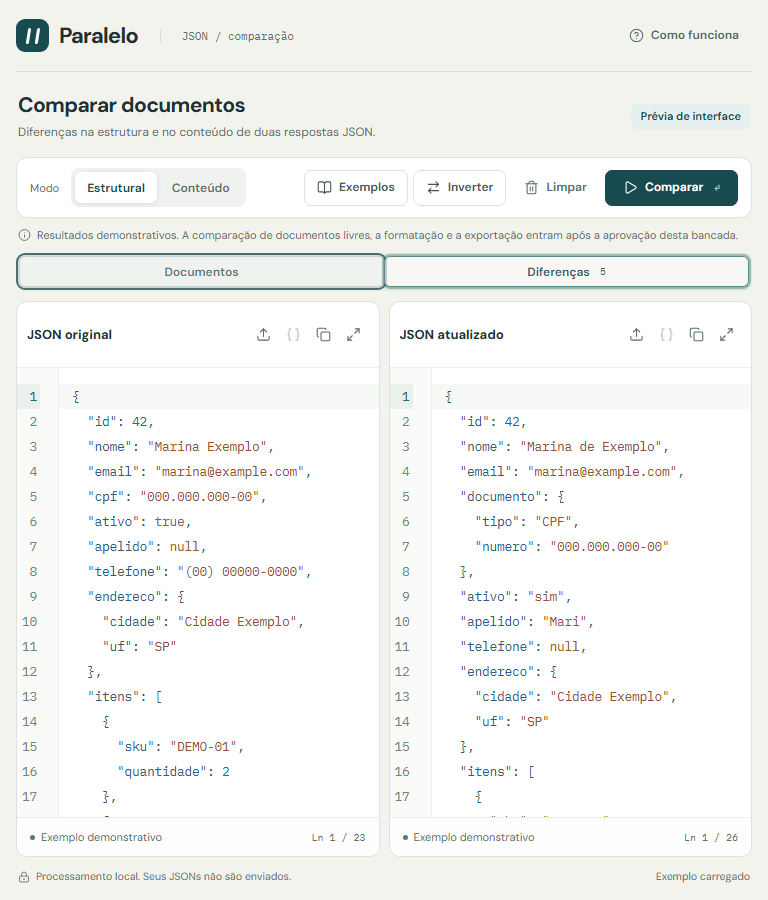
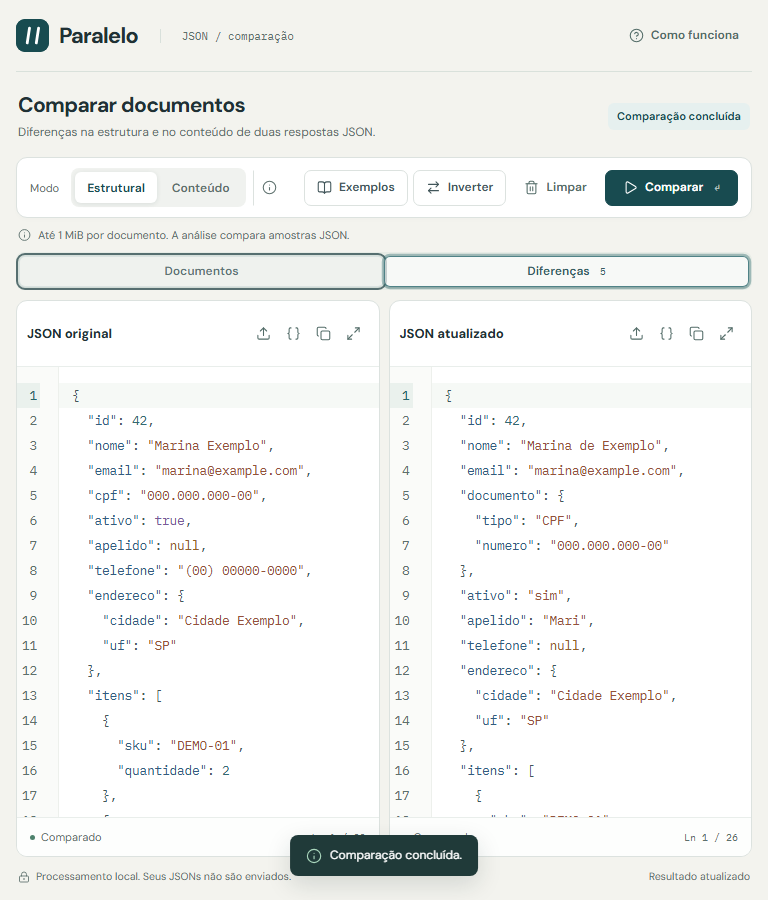
docs: document and capture the validated Paralelo V1

diff --git a/README.md b/README.md
@@ -1,12 +1,12 @@
 # Paralelo
 
-Bancada para comparar documentos JSON. Esta entrega é a **prévia navegável da interface React**, aguardando aprovação visual antes da implementação do motor.
+Bancada web para comparar dois exemplos JSON, inspecionar diferenças e exportar um relatório Markdown. O processamento acontece **localmente no navegador**, em um Web Worker. Não há backend, conta ou envio de documentos.
 
 ![Bancada em desktop](docs/screenshots/paralelo-1440.png)
 
 ## Executar
 
-Requer Node.js 24 LTS e npm. Na raiz:
+Requer Node.js 24 LTS e npm. As dependências têm versões fixas e um único lockfile.
 
 ```sh
 npm ci
@@ -15,39 +15,75 @@ npm run dev
 
 Abra http://127.0.0.1:5184/. A porta é fixa para evitar abrir outra aplicação por engano.
 
-Para executar o artefato estático:
+Para gerar e experimentar o artefato de produção:
 
 ```sh
 npm run build
 npm run preview
 ```
 
-A saída está em `dist/`, ignorada no Git. A publicação remota não faz parte deste marco.
+A saída está em `dist/`, ignorada no Git. Pode ser hospedada como arquivos estáticos, servindo os arquivos JavaScript do Worker com seu tipo correto. Use HTTPS em produção, inclusive para acesso ao clipboard. Não é necessário ASP.NET, SignalR ou WebSockets; o WebSocket de HMR existe apenas no desenvolvimento do Vite. Publicação remota permanece fora desta entrega.
 
-## O que experimentar
+## Utilizar
 
-- Os exemplos de cadastro, webhook e configuração substituem os documentos e apresentam resultados demonstrativos no modo selecionado.
-- Alterar o modo exige clicar em **Comparar**. O botão reapresenta apenas o cenário demonstrativo intacto; não compara documentos livres.
-- O modo **Conteúdo** do exemplo de configuração tem 32 diferenças e permite testar as duas páginas.
-- Filtros de classificação e tipo se combinam. O drawer de detalhes navega pelo conjunto filtrado, inclusive entre páginas.
-- **Localizar** seleciona o valor completo no CodeMirror a partir de intervalos fixos conferidos para cada exemplo. Ausência e JSON `null` são distintos.
-- Os editores permitem digitar, desfazer/refazer, importar UTF-8 com ou sem BOM, copiar e ampliar. Tab permite sair do editor.
-- Editar, importar, inverter ou mudar o modo torna o resultado anterior desatualizado e bloqueia sua localização. Recarregar um exemplo restaura o cenário.
-- Textos, seleção, histórico e rolagem permanecem nas mesmas instâncias de editor ao alternar abas ou larguras.
+A primeira visita abre o exemplo fictício de cadastro já comparado. Os exemplos de cadastro, webhook e configuração substituem os dois documentos, preservam o modo e executam uma comparação real.
 
-Formatação e exportação estão desabilitadas e identificadas como pendentes. Esta prévia **não valida JSON livre nem comprova precisão de comparação numérica**. Essas garantias dependerão dos testes e da implementação do motor após a aprovação.
+- **Estrutural:** identifica propriedades, tipos, transições envolvendo null e diferenças nos arrays. Ignora mudanças comuns de valores escalares.
+- **Conteúdo:** acrescenta mudanças de valores escalares, com igualdade numérica exata.
+- Digitação, importação, formatação, inversão e mudança de modo exigem clicar em **Comparar**, ou usar Ctrl/Cmd+Enter na bancada. O resultado anterior continua consultável, com indicação de desatualização; localização e exportação ficam bloqueadas.
+- Cada editor permite importar `.json` em UTF-8 com ou sem BOM, formatar, copiar, ampliar, desfazer/refazer e localizar valores completos. Tab permite sair do editor.
+- O inspector combina os filtros de classificação e tipo, com páginas de 25 diferenças. O drawer navega pelo conjunto filtrado, inclusive entre páginas.
+- **Exportar Markdown** inclui todas as diferenças da comparação atual, independentemente dos filtros. Ausência, JSON null e prévias truncadas são identificados.
+- Durante processamento, os documentos e as ações concorrentes são bloqueados. **Cancelar** interrompe o Worker. Após 10 segundos, a operação é interrompida automaticamente; falhas permitem tentar uma nova operação, preservando os documentos.
+
+## Regras de comparação
+
+Qualquer raiz JSON válida é aceita. A comparação ignora espaços e ordem das propriedades; os nomes são comparados de forma ordinal e sensível a maiúsculas. Comentários, vírgulas finais, propriedades duplicadas após decodificação e sequências Unicode com substitutos isolados são rejeitados. Erros informam lado, linha e coluna sem expor trechos ou nomes de propriedades.
+
+Números são comparados a partir dos tokens originais, normalizando sinal, dígitos significativos e expoente inteiro com BigInt. O valor numérico produzido pelo parser não é usado: `9007199254740992` e `9007199254740993` são distintos; `1.2300` e `123e-2` são equivalentes; `-0` e `0` também. Expoentes não são expandidos em sequências de zeros.
+
+Arrays são comparados **por índice**, inclusive quando heterogêneos ou aninhados. Reordenações podem gerar diferenças; não há detecção de movimentação, associação por identidade ou inferência de schema de arrays vazios. Uma subárvore adicionada/removida ou substituição de tipo gera uma diferença, sem repetir seus descendentes. A saída é determinística e usa JSON Pointer; a raiz é exibida como “(raiz)”.
+
+| Evidência observada                                                    | Classificação               |
+| ---------------------------------------------------------------------- | --------------------------- |
+| Propriedade removida ou tipo alterado                                  | Potencial incompatibilidade |
+| Valor concreto → null                                                  | Potencial incompatibilidade |
+| null → valor concreto                                                  | Informativa                 |
+| Propriedade adicionada, elemento adicionado/removido ou valor alterado | Informativa                 |
+
+São evidências de **amostras**, não prova de mudança contratual ou quebra efetiva. “Informativa” também não garante compatibilidade. Ausência é diferente de null.
+
+A formatação usa dois espaços e quebras LF, mantendo a ordem e os tokens originais de strings e números. Se a entrada for inválida ou a saída exceder o limite, o editor permanece integralmente preservado. Não se usa JSON.parse/JSON.stringify para transformar os documentos da aplicação.
+
+## Limites e privacidade
+
+| Recurso                             | Limite                                             |
+| ----------------------------------- | -------------------------------------------------- |
+| Cada documento, inclusive formatado | 1 MiB em UTF-8                                     |
+| Profundidade                        | 64 níveis de objetos/arrays                        |
+| Diferenças                          | 1.000                                              |
+| Prévia de cada valor                | 512 unidades UTF-16, sem dividir pares substitutos |
+| Textos acumulados no resultado      | 4 MiB em UTF-8                                     |
+| Relatório Markdown                  | 8 MiB em UTF-8                                     |
+| Tempo de uma operação no Worker     | 10 segundos                                        |
+
+Os limites são centralizados em `src/core/limits.ts`. Exceder limites nunca produz equivalência ou resultado parcial. O relatório protege conteúdo arbitrário com delimitadores de bloco seguros; não é renderizado como HTML na aplicação.
+
+Os documentos ficam somente em memória na aba. Não há localStorage, sessionStorage, cookies, histórico, telemetria ou persistência de payloads. Recarregar a página restaura o exemplo inicial. Abas/sessões independentes não compartilham documentos.
 
 ## Interface
 
-A POC original, preservada em `reference/api-diff-poc.html`, orienta composição, cores e interações. Seu algoritmo não foi transportado.
+A POC preservada em `reference/api-diff-poc.html` orienta composição, cores e interações. Seu algoritmo não foi transportado.
 
-| Largura | Organização |
-|---|---|
-| A partir de 1.021 px | Dois documentos e inspector lateral |
-| 721–1.020 px | Abas Documentos / Diferenças |
-| Até 720 px | Abas Original / Atualizado / Diferenças |
+| Largura              | Organização                             |
+| -------------------- | --------------------------------------- |
+| A partir de 1.021 px | Dois documentos e inspector lateral     |
+| 721–1.020 px         | Abas Documentos / Diferenças            |
+| Até 720 px           | Abas Original / Atualizado / Diferenças |
 
-Drawers usam shadcn/ui sobre Radix, com contenção e restauração de foco, Escape e ancoragem nas bordas. Transições têm entre 150 e 170 ms e respeitam a preferência por movimento reduzido. As fontes DM Sans e IBM Plex Mono são locais, com licenças em `public/fonts/`.
+As instâncias CodeMirror permanecem montadas: texto, seleção, histórico e rolagem sobrevivem à alternância de abas, expansão e redimensionamento. Drawers têm contenção/restauração de foco, Escape e ancoragem nas bordas. Movimentos curtos respeitam a preferência por movimento reduzido. DM Sans e IBM Plex Mono são locais, com licenças em `public/fonts/`. Logo e favicon compartilham o mesmo SVG com barras inclinadas.
+
+“Arrays por índice” oferece explicação por hover/foco e por clique/toque. O filtro de tipo usa Select estilizado sobre Radix, com navegação por teclado.
 
 ## Testar
 
@@ -55,56 +91,47 @@ Drawers usam shadcn/ui sobre Radix, com contenção e restauração de foco, Esc
 npm test
 npm run typecheck
 npm run build
-npx playwright install chromium
+npx playwright install chromium firefox webkit
 npm run test:e2e
 ```
 
-Vitest cobre os dados demonstrativos e os estados da bancada. Playwright verifica a aplicação de produção com CodeMirror real. Os testes de navegador reutilizam o preview local da porta 5184 ou o iniciam quando necessário; execute o build antes deles. Capturas são atualizadas em `docs/screenshots/`.
+Vitest cobre motor, limites, relatórios, ciclo de vida do Worker e estados da bancada. Playwright usa o artefato de produção e CodeMirror real: execute o build antes. Reutiliza o preview local da porta 5184 ou o inicia quando necessário. A suíte completa roda em Chromium; Firefox e WebKit executam um fluxo integrado de comparação, formatação, localização, filtros e download.
 
-Cenários e limites efetivamente verificados estão em [docs/validation.md](docs/validation.md). Testes do motor definitivo permanecem fora deste marco.
+Casos, resultados, capturas e limites da validação estão em [docs/validation.md](docs/validation.md).
 
 ## Código
 
-React 19, TypeScript estrito, Vite, Tailwind 4, CodeMirror 6, Lucide e componentes shadcn seletivos sobre Radix. Versões fixas e um lockfile npm.
+React 19, TypeScript estrito, Vite, Tailwind 4, CodeMirror 6, Lucide e componentes shadcn seletivos sobre Radix. Sem framework de estado ou transporte.
 
+- `src/core`: validação estrita sobre jsonc-parser 3.3.1, números exatos, comparação, formatação e Markdown; sem React.
+- `src/workers`: um Worker nativo e cliente concreto com identificação/revisão, cancelamento, timeout e recriação após falha.
 - `src/app`: composição e estado local da bancada.
 - `src/components`: editores, inspector e componentes visuais.
-- `src/demo`: textos, diferenças e intervalos **autoriais e fixos**; não contém um comparador.
-- `tests/e2e`: cenários reais de navegador.
+- `src/demo`: apenas documentos fictícios e metadados dos exemplos. Resultados vêm do motor.
+- `src/test/fixtures`: resultados esperados fixos dos exemplos, usados somente pelos testes.
+- `tests/e2e`: fluxos no navegador.
 
-Não há backend, Worker, armazenamento de documentos ou estado global externo. A aplicação publicada usa arquivos estáticos; o WebSocket de HMR existe apenas no servidor de desenvolvimento do Vite.
+## Limitações conhecidas
 
-## Privacidade e limites desta prévia
-
-Os documentos ficam em memória neste navegador. Não há localStorage, sessionStorage, cookies, histórico, telemetria ou envio de payloads. A importação limita cada arquivo a 1 MiB e rejeita UTF-8 inválido, preservando o editor em caso de falha. Esse limite de importação não substitui a futura validação de documentos digitados.
-
-Clipboard depende do navegador e do contexto seguro. Quando indisponível, a interface informa a falha e permite cópia manual. A suíte de navegador foi executada em Chromium; outros motores ainda não foram validados.
-
-O bundle principal desta prévia tem aproximadamente 227 KiB comprimidos com gzip. Vite emite um aviso pelo tamanho não comprimido acima de 500 kB; não há falha de build. Otimização adicional de carregamento não foi incluída neste marco visual.
+- Analisa exemplos JSON, não contratos OpenAPI ou schemas. Não inclui V2, persistência, autenticação ou histórico.
+- Clipboard depende do contexto seguro e da permissão do navegador; falhas têm feedback e os documentos continuam disponíveis para cópia manual.
+- Operações muito custosas podem atingir o timeout conforme documento e hardware. O cancelamento termina a thread e uma nova operação cria outra.
+- O valor completo permanece selecionável; o realce adicional por linha é limitado às primeiras 200 linhas do valor para conter trabalho de decoração.
+- Testes automatizados não substituem auditoria manual com leitores de tela, dispositivos físicos e zoom nativo em todos os navegadores.
+- O build passa com aviso de chunk principal acima de 500 kB: aproximadamente 235 KiB gzip, mais Worker de 22 kB sem compressão. Não foi adicionado fracionamento artificial para silenciar esse aviso.
 
 ## Preservação da implementação anterior
 
 - `archive/dotnet-v1`: estado completo do workspace .NET, commit `36ed3ee`.
 - `archive/dotnet-rar`: os 41 arquivos não gerados do RAR original, commit `cf55343`, com origem documentada em `ARCHIVE.md` nessa branch.
-- `main`: aplicação React ativa; sem dependência do código .NET.
+- `main`: aplicação React ativa, sem dependência do código .NET.
 
 A comparação do RAR encontrou 29 arquivos idênticos ao workspace e 12 diferentes, sem arquivos ausentes. Seu snapshot foi conferido byte a byte; arquivos gerados e redundantes foram excluídos. O RAR local continua intacto e ignorado.
-
-Para consultar os registros sem trocar a branch ativa:
 
 ```sh
 git log --oneline archive/dotnet-v1
 git show archive/dotnet-rar:ARCHIVE.md
-```
-
-Para exportar uma cópia recuperável:
-
-```sh
 git archive --format=zip --output=dotnet-v1.zip archive/dotnet-v1
 ```
 
-As branches são preservação local no mesmo repositório; não substituem um backup externo. Não há remoto configurado ou publicação realizada.
-
-## Ponto de aprovação
-
-**Parar após esta bancada navegável.** A implementação completa do motor, sua integração e o Worker exigem aprovação posterior explícita do usuário.
+As branches são preservação local no mesmo repositório; não substituem um backup externo. Não há remoto configurado ou publicação remota realizada.

diff --git a/docs/validation.md b/docs/validation.md
@@ -1,23 +1,60 @@
-# Validação da bancada visual
+# Validação da V1 — Paralelo
 
-## Marco
+Execução em 15/10/2026, Windows, Node.js 24 e dependências fixadas pelo package-lock. A interface aprovada passou a usar o motor real; os resultados esperados estáticos existem somente nos testes.
 
-Prévia React navegável, com resultados demonstrativos. Motor, formatação definitiva, relatório e Worker não implementados.
+## Resultado
 
-## Verificações
+- **112 testes Vitest aprovados**, cobrindo Core, cliente Worker, estados React e exemplos.
+- **18 fluxos Playwright aprovados** sobre o build de produção: 16 no Chromium, um fluxo integrado no Firefox e um no WebKit.
+- TypeScript estrito e build estático de produção aprovados.
+- Aplicação publicada localmente com `npm run preview`, em http://127.0.0.1:5184/.
 
-- TypeScript estrito e build estático de produção.
-- 10 testes Vitest: intervalos completos de todos os valores dos exemplos, classificação direcional de null, ausência, modos, interseção de filtros, paginação, revisões e estados reais da página com editor substituído no teste unitário.
-- 7 fluxos Playwright com CodeMirror real: responsividade, drawers/foco/localização, filtros e navegação entre páginas, instâncias/seleção/histórico, importação Unicode e falhas sem perda, clipboard/movimento reduzido/isolamento, rolagem/teclado/zoom.
-- Larguras de 360, 720, 721, 768, 1.020, 1.021 e 1.440 px; sem rolagem horizontal global nessas larguras.
-- Em tablet e celular o inspector ocupa a mesma área dos documentos, sem virar uma seção inferior.
-- Drawers esquerdo e direito conferidos com distância inferior a 1 px da borda em desktop; foco contido e restaurado após Escape.
-- Seleção de objeto completo, com delimitadores, no editor atualizado; localização bloqueada para valores ausentes e resultados desatualizados.
-- Seleção, conexão da instância, desfazer e rolagem preservados ao ocultar/reabrir painéis; expansão e restauração do editor.
-- Importação de uma linha com 260.000 emoji, 1.040.002 bytes em UTF-8, mais BOM. Edição, desfazer e cópia completa conferidos. Arquivo maior que 1 MiB e UTF-8 inválido rejeitados, com conteúdo anterior preservado.
-- Clipboard disponível e indisponível; contextos separados começam independentes. Sem armazenamento local ou de sessão e sem requisições da aplicação para terceiros no fluxo testado.
-- Preferência por movimento reduzido, saída do editor por Tab e navegação das abas por setas.
-- Ampliação de 200% por CSS no teste automatizado: sem rolagem horizontal global; ajuda continua acessível. Não substitui uma matriz de zoom nativo em todos os navegadores.
+## Motor e validação estrita
+
+- Igualdade com espaços, ordem de propriedades e strings decodificadas; modos estrutural/conteúdo; qualquer raiz JSON.
+- Números grandes equivalentes e distintos, incluindo `9007199254740992` versus `9007199254740993`, decimais, zeros negativos e expoentes positivos/negativos extremos. Comparação usa tokens originais e BigInt para o expoente; não depende do Number produzido pelo jsonc-parser.
+- JSON malformado, comentários, vírgulas finais, gramática numérica inválida e espaços não JSON rejeitados.
+- Propriedades duplicadas com valores iguais ou distintos, nomes escapados equivalentes, ocorrências aninhadas e nomes como `__proto__`.
+- Pares substitutos Unicode válidos; substitutos isolados literais e escapados rejeitados, inclusive em propriedades. Strings decodificadas equivalentes e caracteres multibyte.
+- Adições, remoções e tipos; uma diferença por subárvore, sem descendentes repetidos. Arrays vazios, heterogêneos, aninhados e reordenados por índice.
+- Todas as direções envolvendo null e ausência, com contagens/classificações esperadas explícitas; comparação nunca afirma quebra contratual comprovada.
+- JSON Pointer com nomes vazios, `/` e `~`; homônimos em objetos diferentes; raiz, Unicode/emoji, CRLF e intervalos UTF-16 exatos.
+- Ordem determinística, resultados destacados da árvore do parser e imutabilidade dos resultados produzidos pelo Core.
+- Profundidade 64 aceita e 65 rejeitada; entrada UTF-8 no limite; 1.000 diferenças aceitas e a seguinte rejeitada.
+- Orçamento de textos do resultado: exatamente 4 MiB aceitos; um byte a mais rejeitado sem resultado parcial. Prévia não divide pares substitutos.
+
+## Formatação e relatório
+
+- Formatação semanticamente equivalente e idempotente, com dois espaços/LF, ordem de propriedades/arrays preservada e sequência de tokens não brancos integralmente preservada, incluindo números e escapes.
+- Entrada inválida ou saída acima de 1 MiB não retorna texto substituto. Saída exatamente no limite aceita.
+- No navegador, falha de formatação com array de 220.000 números preserva o documento e a comparação válida; cópia confirma o conteúdo original.
+- Markdown inclui modo, política de arrays, resumo, classificações, todos os caminhos, ausência/null e indicação de prévia truncada.
+- Delimitadores maiores que sequências arbitrárias de backticks impedem escapar dos blocos; caminhos/valores com HTML permanecem em blocos.
+- Relatório exatamente em 8 MiB aceito; um byte a mais rejeitado sem relatório parcial.
+- Download real conferido com inteiros acima de 2^53 e todas as diferenças, mesmo com filtro que oculta parte delas.
+
+## Worker e estados da bancada
+
+- Uma thread nativa, uma operação ativa, revisão/identificação e descarte de respostas antigas; nenhum pool ou fila genérica.
+- Testes do cliente: concorrência rejeitada, cancelamento, recriação, resposta antiga, evento tardio de thread antiga, timeout, falhas de construção/execução/deserialização e descarte.
+- No navegador: Worker executando trabalho síncrono por cinco segundos, enquanto um frame da interface continua executando. Cancelamento restaura controles e a próxima comparação usa um Worker real novo.
+- Timeout testado com relógio controlado; falha real da thread injetada e recuperação verificada. Mensagem da exceção não chega ao feedback da interface.
+- Inicialização em React StrictMode e carregamento de exemplo executam uma comparação única. Modo é preservado. Digitação e demais alterações exigem comparação explícita.
+- Formatação altera apenas o lado solicitado e invalida o resultado; importação cancelada antes de concluir não sobrescreve documentos posteriores.
+- Erros nos dois documentos apresentados por lado; documento original tem prioridade de foco. Resultado anterior desatualizado continua consultável, com exportação/localização bloqueadas.
+
+## Interface real
+
+- Larguras de 360, 720, 721, 768, 1.020, 1.021 e 1.440 px; sem rolagem horizontal global. Inspector ocupa a mesma área dos documentos nas faixas menores.
+- Drawers esquerdo/direito com distância inferior a 1 px da borda; foco contido e restaurado após Escape, inclusive após navegação entre páginas.
+- Filtros de tipo e classificação por interseção; navegação anterior/próxima cruza a fronteira de 25 itens.
+- Instâncias CodeMirror, texto, seleção, histórico/desfazer e rolagem preservados ao ocultar/reabrir painéis, ampliar e redimensionar.
+- Localização seleciona o valor completo com delimitadores. Uma subárvore de milhares de linhas, após conteúdo extenso, mostra seu início; realce por linha limitado a 200 linhas.
+- Linha Unicode com 260.000 emoji: 1.040.002 bytes, mais BOM na importação. Edição, desfazer, cópia e comparação real/localização conferidos. Arquivo acima de 1 MiB ou UTF-8 inválido preserva o editor.
+- Clipboard disponível/indisponível; abas/sessões independentes; sem browser storage e sem requisições a terceiros no fluxo testado.
+- Tooltip por hover/foco e Popover por clique/toque na política de arrays. Select estilizado por teclado, sem dropdown nativo. Logo e favicon usam o mesmo arquivo SVG.
+- Redução de movimento, saída do editor por Tab e navegação de abas por setas. Ampliação de 200% por CSS sem rolagem horizontal global; não equivale a uma matriz de zoom nativo.
+- Contraste calculado para texto principal/secundário, classificações, ação primária e sintaxe. Numeração de linhas/editores ajustada ao tom secundário de contraste maior. Isso não constitui auditoria WCAG completa.
 
 ## Capturas
 
@@ -27,11 +64,11 @@ Prévia React navegável, com resultados demonstrativos. Motor, formatação def
 - `screenshots/paralelo-mobile-results.png`: inspector no celular.
 - `screenshots/paralelo-details.png`: drawer de detalhes.
 
-## Limites conhecidos
+## Limitações da verificação
 
-- Validação automatizada em Chromium; Firefox, WebKit e leitores de tela não foram verificados.
-- Os resultados e intervalos pertencem somente aos exemplos intactos. Não há parsing ou comparação de JSON livre.
-- Precisão numérica, rejeição de duplicatas, limites completos do resultado e relatório dependem da etapa seguinte, ainda não autorizada.
-- Importação tem limite de tamanho; digitação não recebe a validação completa do futuro motor.
-- Não há persistência: recarregar a página restaura o exemplo inicial.
-- Build passa com aviso de chunk acima de 500 kB; tamanho gzip aproximado de 227 KiB.
+- A matriz completa roda no Chromium. Firefox/WebKit têm um fluxo integrado; WebKit no Windows não substitui Safari em dispositivos Apple físicos.
+- Não foi realizada auditoria manual com leitores de tela, todos os navegadores/dispositivos físicos ou todos os níveis de zoom nativo.
+- Tempo limite é de dez segundos e pode ser atingido conforme hardware e entrada, mesmo dentro dos limites de tamanho. O comportamento de falha é controlado; não se promete duração fixa de processamento.
+- Vite emite aviso de chunk principal acima de 500 kB; build passa. Aproximadamente 235 KiB gzip no principal e 22 kB sem compressão no Worker.
+- Sem persistência; recarregar descarta a bancada e restaura o exemplo. Sem inferência contratual, identidade/movimentação de arrays ou funcionalidades da V2.
+- Foi necessário executar navegadores fora do sandbox de subprocessos do ambiente. Nenhuma publicação remota foi realizada.
